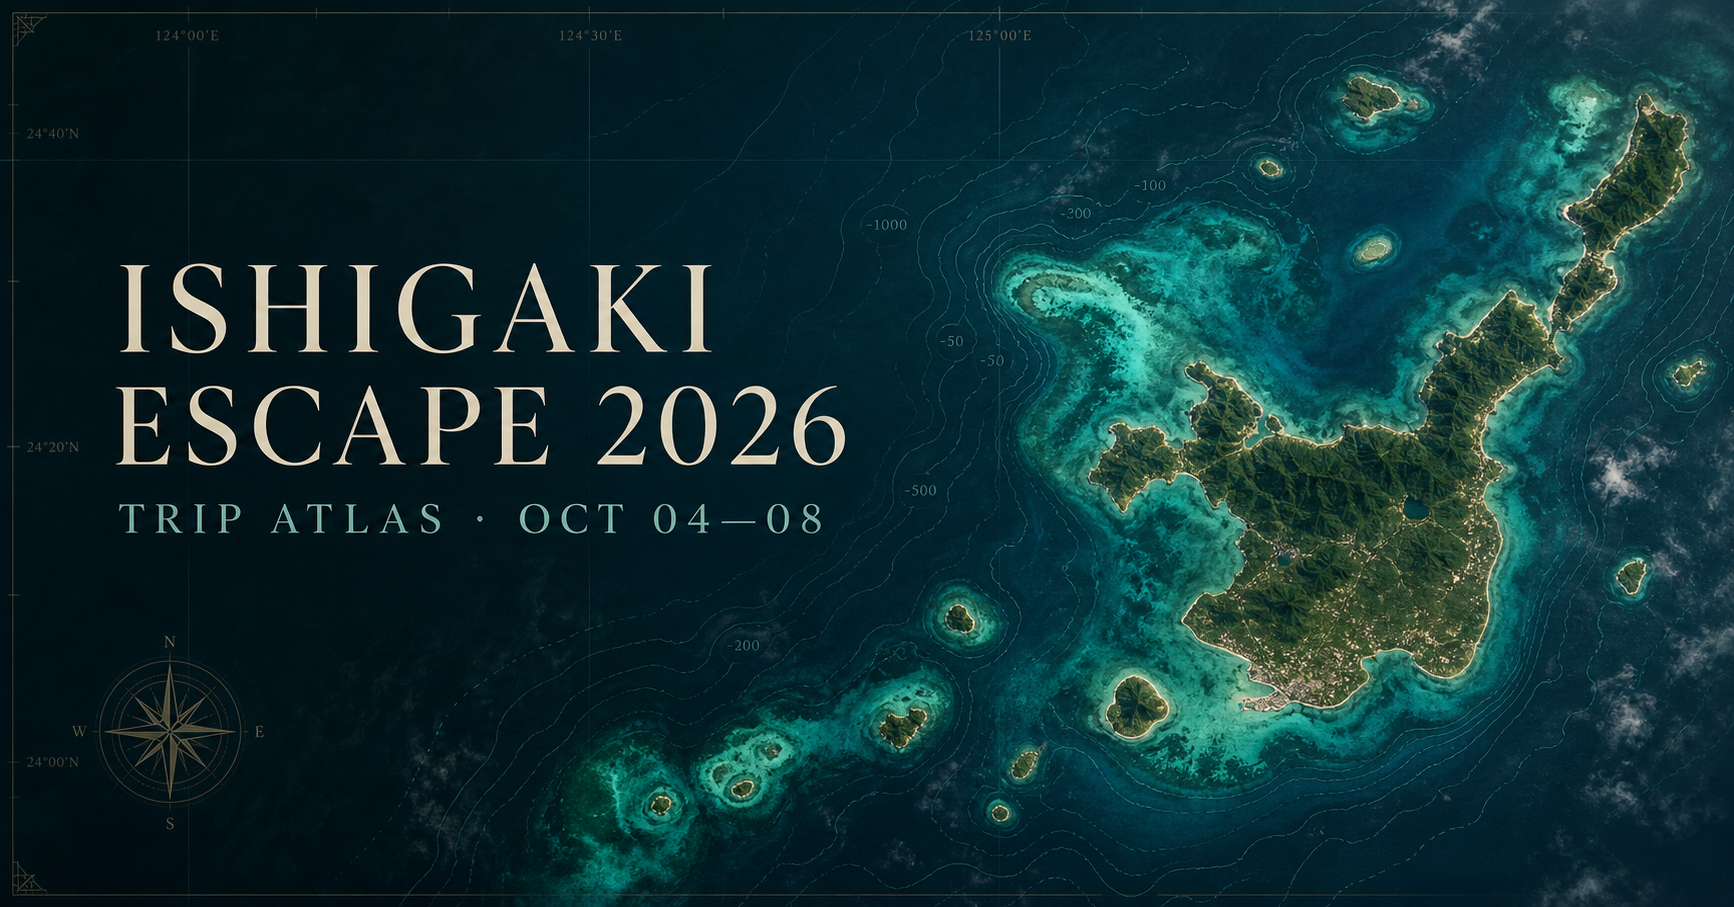
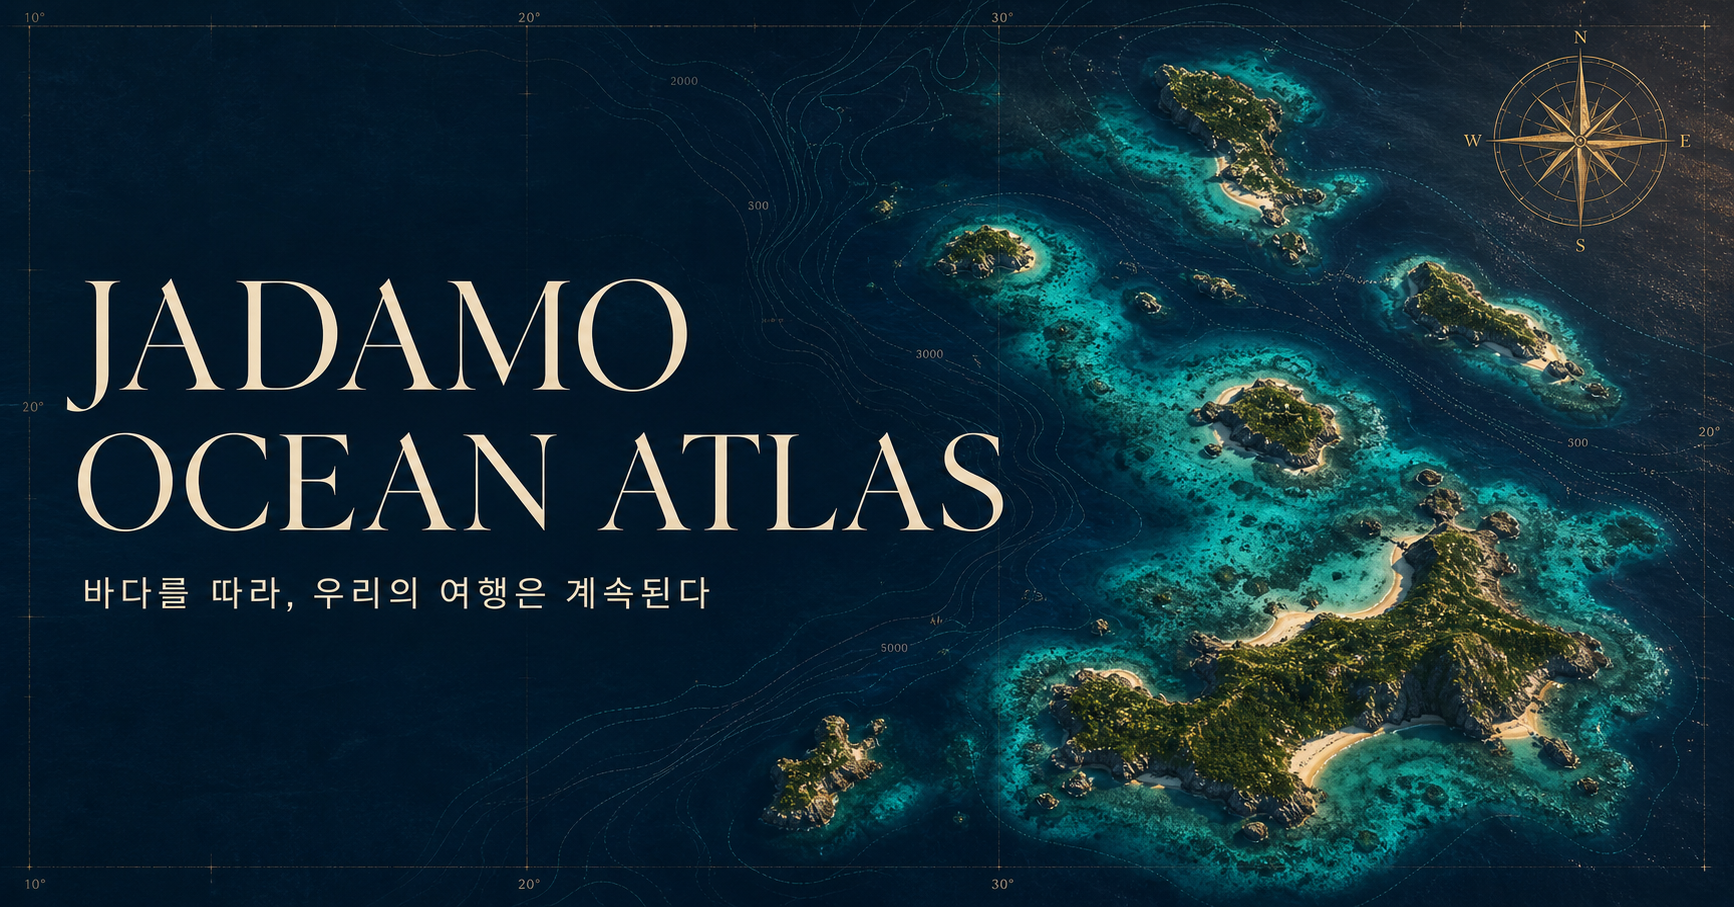
Refresh social sharing preview

diff --git a/app/layout.tsx b/app/layout.tsx
@@ -14,18 +14,30 @@ const geistMono = Geist_Mono({
 });
 
 export const metadata: Metadata = {
-  title: "JADAMO OCEAN Trip — Trip Atlas",
-  description: "지도 위에서 함께 계획하고 기록하는 JADAMO의 여행 아틀라스.",
-  metadataBase: new URL("https://ishigaki-escape-2026.eomkun12.chatgpt.site"),
+  title: "JADAMO OCEAN ATLAS | 우리들의 바다 여행 기록",
+  description:
+    "바다를 따라, 우리의 여행은 계속된다. 함께 떠난 섬과 바다의 순간을 한곳에 모은 JADAMO 여행 아틀라스.",
+  metadataBase: new URL("https://jadamo-trip.eomkun12.chatgpt.site"),
   openGraph: {
-    title: "JADAMO OCEAN Trip",
-    description: "지도 위에서 함께 계획하고 기록하는 JADAMO의 여행 아틀라스.",
-    images: [{ url: "/og.png", width: 1734, height: 907 }],
+    type: "website",
+    siteName: "JADAMO OCEAN ATLAS",
+    title: "JADAMO OCEAN ATLAS",
+    description: "바다를 따라, 우리의 여행은 계속된다.",
+    url: "/",
+    locale: "ko_KR",
+    images: [
+      {
+        url: "/og.png",
+        width: 1734,
+        height: 907,
+        alt: "청록빛 바다와 섬들로 그려진 JADAMO OCEAN ATLAS",
+      },
+    ],
   },
   twitter: {
     card: "summary_large_image",
-    title: "JADAMO OCEAN Trip",
-    description: "지도 위에서 함께 계획하고 기록하는 JADAMO의 여행 아틀라스.",
+    title: "JADAMO OCEAN ATLAS",
+    description: "바다를 따라, 우리의 여행은 계속된다.",
     images: ["/og.png"],
   },
   icons: {
